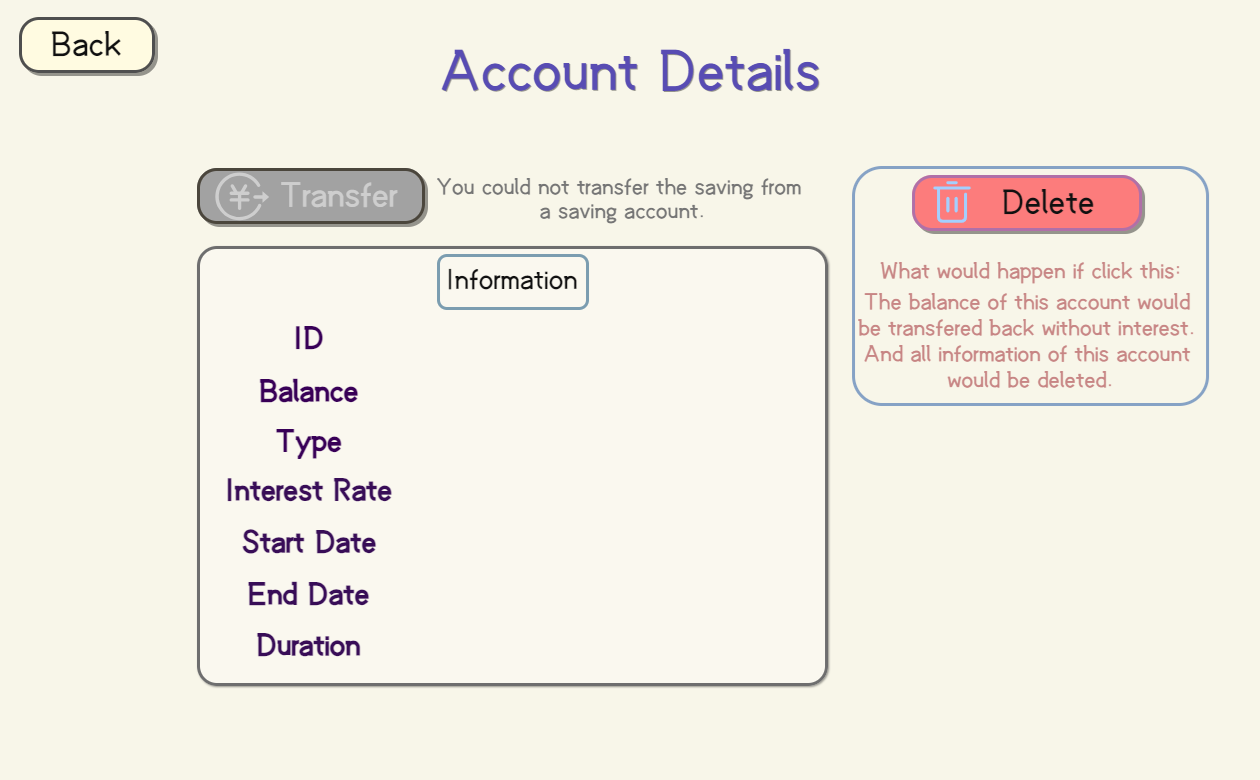
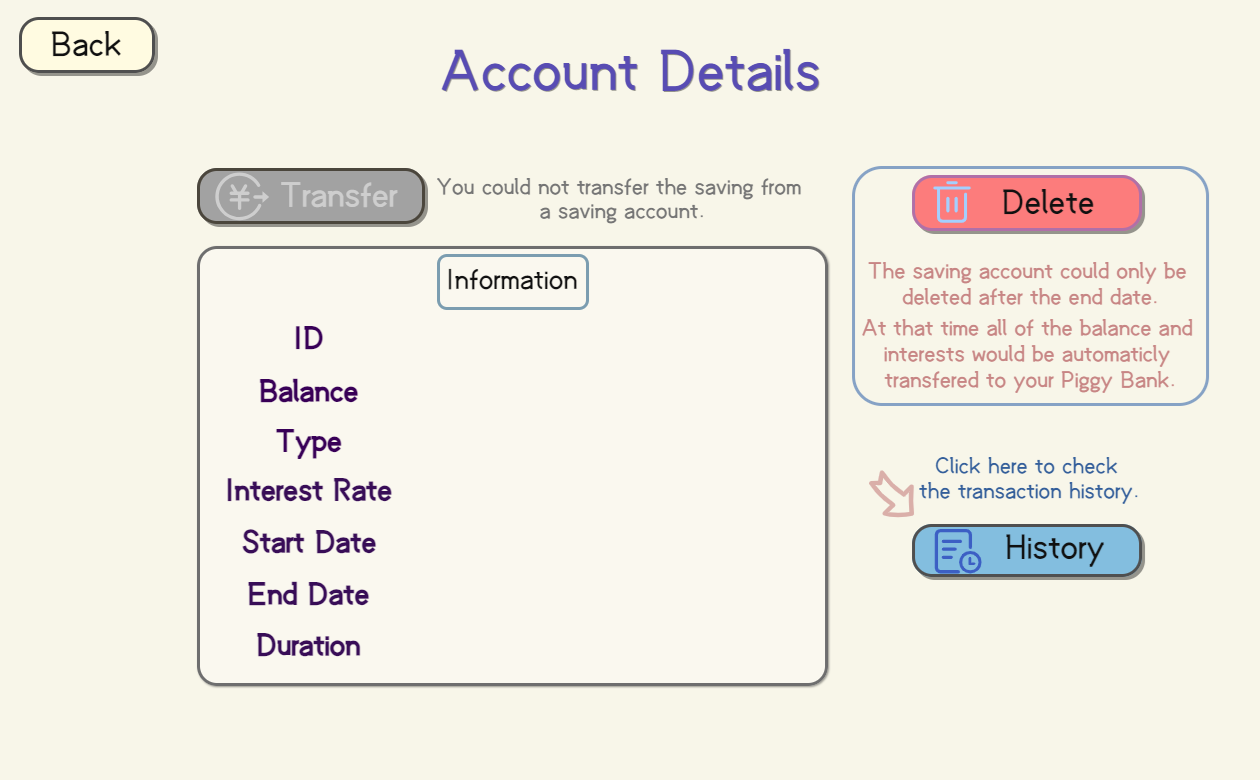
modify Class Page07_Account

Changed region(s): [[0.681, 0.3385, 0.9595, 0.5231], [0.681, 0.5846, 0.9286, 0.7692]]

diff --git a/src/main/java/com/virtualbank/ui/Page07_Account.java b/src/main/java/com/virtualbank/ui/Page07_Account.java
@@ -58,14 +58,7 @@ public class Page07_Account extends JFrame {
         setDefaultCloseOperation(JFrame.EXIT_ON_CLOSE);
         setLayout(null);  // Use null layout for absolute positioning
 
-        JButton exitButton = createButton("Exit", 20, 20, 100, 50);
-        this.add(exitButton);
-        this.exitButton = exitButton;
-        JButton deleteButton = createButton("images/delete_Button.png", 500, 630, 233, 85);
-        this.add(deleteButton);
-        this.deleteButton = deleteButton;
-
-
+        // 根据账户类型设置各自的UI
         if (currentAccount instanceof CurrentAccount) {
             setupCurrentAccountUI((CurrentAccount) account);
         } else if (currentAccount instanceof SavingAccount) {
@@ -76,36 +69,30 @@ public class Page07_Account extends JFrame {
     }
 
     private void setupPiggyBankUI(PiggyBank account) {
-        setupCommonUIElements("images/Piggy_Bank.png");
 
+        ImageIcon backgroundIcon = new ImageIcon("images/Piggy_Bank.png");
+        JLabel backgroundLabel = new JLabel(backgroundIcon);
+        backgroundLabel.setBounds(0, 0, 1260, 780);
+        this.setContentPane(backgroundLabel);
 
-        // Labels for account details
-        JLabel idLabel = createLabel("ID", 340, 140, 200, 50, Font.BOLD, 28);
-        JLabel balanceLabel = createLabel("Balance", 340, 205, 200, 50, Font.BOLD, 28);
-        JLabel typeLabel = createLabel("Type", 340, 270, 200, 50, Font.BOLD, 28);
-        JLabel interestLabel = createLabel("Interest", 340, 335, 200, 50, Font.BOLD, 28);
-        this.add(idLabel);
-        this.add(balanceLabel);
-        this.add(typeLabel);
-        this.add(interestLabel);
+        setupCommonUIElements();
 
         // !!! DYNAMICS
         // Data Labels with dynamic values
-        JLabel dataIdLabel = createDataLabel(account.getUuid().toString(), 540, 140, Font.PLAIN, 28);
-        this.dataBalanceLabel = createDataLabel(String.format("%.2f", account.getBalance()), 540, 205, Font.PLAIN, 28);
-        JLabel dataTypeLabel = createDataLabel("Piggy Bank", 540, 270, Font.PLAIN, 28);
-        JLabel dataInterestLabel = createDataLabel(String.format("%.2f%%", account.getInterestRate() * 100), 540, 335, Font.PLAIN, 28);
+        JLabel dataIdLabel = createDataLabel(account.getUuid().toString(), 470, 332);
+        this.dataBalanceLabel = createDataLabel(String.format("%.2f", account.getBalance()), 470, 400);
+        JLabel dataTypeLabel = createDataLabel("Piggy Bank", 470, 473);
+        JLabel dataInterestLabel = createDataLabel(String.format("%.2f%%", account.getInterestRate() * 100), 470, 550);
         this.add(dataIdLabel);
         this.add(dataBalanceLabel);
         this.add(dataTypeLabel);
         this.add(dataInterestLabel);
 
         // Buttons for account operations
-        this.historyButton = createButton("images/history_Button.png", 340, 420, 233, 85);
-        // TODO 为什么存钱罐可以自己给自己转账 所以还是应该创建更高级的转账功能 直接指定UUID转账
-        this.transferButton = createButton("images/transfer_Button.png", 660, 420, 233, 85);
-        this.saveButton = createButton("images/save_Button.png", 340, 520, 233, 85);
-        this.consumeButton = createButton("images/consume_Button.png", 660, 520, 233, 85);
+        this.historyButton = createButton("", 902, 506, 230, 57);
+        this.transferButton = createButton("", 187, 150, 228, 60);
+        this.saveButton = createButton("", 458, 150, 153, 57);
+        this.consumeButton = createButton("", 638, 150, 160, 58);
         this.add(historyButton);
         this.add(transferButton);
         this.add(saveButton);
@@ -113,31 +100,22 @@ public class Page07_Account extends JFrame {
     }
 
     private void setupSavingAccountUI(SavingAccount account) {
-        setupCommonUIElements("images/Current_Account.png");
 
-        JLabel idLabel = createLabel("ID", 340, 140, 200, 50, Font.BOLD, 28);
-        JLabel balanceLabel = createLabel("Balance", 340, 205, 200, 50, Font.BOLD, 28);
-        JLabel typeLabel = createLabel("Type", 340, 270, 200, 50, Font.BOLD, 28);
-        JLabel interestLabel = createLabel("Interest", 340, 335, 200, 50, Font.BOLD, 28);
-        JLabel startDateLabel = createLabel("Start Date", 340, 400, 200, 50, Font.BOLD, 28);
-        JLabel endDateLabel = createLabel("End Date", 340, 465, 200, 50, Font.BOLD, 28);
-        JLabel durationLabel = createLabel("Duration", 340, 530, 200, 50, Font.BOLD, 28);
-        this.add(idLabel);
-        this.add(balanceLabel);
-        this.add(typeLabel);
-        this.add(interestLabel);
-        this.add(startDateLabel);
-        this.add(endDateLabel);
-        this.add(durationLabel);
+        ImageIcon backgroundIcon = new ImageIcon("images/Saving_Account.png");
+        JLabel backgroundLabel = new JLabel(backgroundIcon);
+        backgroundLabel.setBounds(0, 0, 1260, 780);
+        this.setContentPane(backgroundLabel);
+
+        setupCommonUIElements();
 
         // !!! DYNAMICS
-        JLabel dataIdLabel = createDataLabel(account.getUuid().toString(), 540, 140, Font.PLAIN, 28);
-        this.dataBalanceLabel = createDataLabel(String.format("%.2f", account.getBalance()), 540, 205, Font.PLAIN, 28);
-        JLabel dataTypeLabel = createDataLabel("Saving Account", 540, 270, Font.PLAIN, 28);
-        JLabel dataInterestLabel = createDataLabel(String.format("%.2f%%", account.getInterestRate() * 100), 540, 335, Font.PLAIN, 28);
-        JLabel dataStartDateLabel = createDataLabel(account.getCreateDateTime().toString(), 540, 400, Font.PLAIN, 28);
-        JLabel dataEndDateLabel = createDataLabel(account.getMaturityDateTime().toString(), 540, 465, Font.PLAIN, 28);
-        JLabel dataDurationLabel = createDataLabel(String.format("%d Years", account.getTermPeriod().getYears()), 540, 530, Font.PLAIN, 28);
+        JLabel dataIdLabel = createDataLabel(account.getUuid().toString(), 470, 322);
+        this.dataBalanceLabel = createDataLabel(String.format("%.2f", account.getBalance()), 470, 376);
+        JLabel dataTypeLabel = createDataLabel("Saving Account", 470, 427);
+        JLabel dataInterestLabel = createDataLabel(String.format("%.2f%%", account.getInterestRate() * 100), 470, 476);
+        JLabel dataStartDateLabel = createDataLabel(account.getCreateDateTime().toString(), 470, 527);
+        JLabel dataEndDateLabel = createDataLabel(account.getMaturityDateTime().toString(), 470, 579);
+        JLabel dataDurationLabel = createDataLabel(String.format("%d Years", account.getTermPeriod().getYears()), 470, 630);
         this.add(dataIdLabel);
         this.add(dataBalanceLabel);
         this.add(dataTypeLabel);
@@ -146,59 +124,47 @@ public class Page07_Account extends JFrame {
         this.add(dataEndDateLabel);
         this.add(dataDurationLabel);
 
-        // TODO 调整位置
-        this.historyButton = createButton("images/history_Button.png", 340, 420, 233, 85);
+        this.historyButton = createButton("", 902, 506, 230, 57);
         this.add(historyButton);
     }
 
-    private void setupCurrentAccountUI(CurrentAccount account) {
-        setupCommonUIElements("images/Current_Account.png");
 
-        JLabel idLabel = createLabel("ID", 340, 140, 200, 50, Font.BOLD, 28);
-        JLabel balanceLabel = createLabel("Balance", 340, 205, 200, 50, Font.BOLD, 28);
-        JLabel typeLabel = createLabel("Type", 340, 270, 200, 50, Font.BOLD, 28);
-        JLabel interestLabel = createLabel("Interest", 340, 335, 200, 50, Font.BOLD, 28);
-        this.add(idLabel);
-        this.add(balanceLabel);
-        this.add(typeLabel);
-        this.add(interestLabel);
+    private void setupCurrentAccountUI(CurrentAccount account) {
+
+        ImageIcon backgroundIcon = new ImageIcon("images/Current_Account.png");
+        JLabel backgroundLabel = new JLabel(backgroundIcon);
+        backgroundLabel.setBounds(0, 0, 1260, 780);
+        this.setContentPane(backgroundLabel);
+
+        setupCommonUIElements();
 
         // !!! DYNAMICS
-        JLabel dataIdLabel = createDataLabel(account.getUuid().toString(), 540, 140, Font.PLAIN, 28);
-        this.dataBalanceLabel = createDataLabel(String.format("%.2f", account.getBalance()), 540, 205, Font.PLAIN, 28);
-        JLabel dataTypeLabel = createDataLabel("Current Account", 540, 270, Font.PLAIN, 28);
-        JLabel dataInterestLabel = createDataLabel(String.format("%.2f%%", account.getInterestRate() * 100), 540, 335, Font.PLAIN, 28);
+        JLabel dataIdLabel = createDataLabel(account.getUuid().toString(), 470, 332);
+        this.dataBalanceLabel = createDataLabel(String.format("%.2f", account.getBalance()), 470, 400);
+        JLabel dataTypeLabel = createDataLabel("Piggy Bank", 470, 473);
+        JLabel dataInterestLabel = createDataLabel(String.format("%.2f%%", account.getInterestRate() * 100), 470, 550);
         this.add(dataIdLabel);
         this.add(dataBalanceLabel);
         this.add(dataTypeLabel);
         this.add(dataInterestLabel);
 
-        this.historyButton = createButton("images/history_Button.png", 340, 420, 233, 85);
-        this.transferButton = createButton("images/transfer_Button.png", 660, 420, 233, 85);
+        this.historyButton = createButton("", 902, 506, 230, 57);
+        this.transferButton = createButton("", 187, 150, 228, 60);
         this.add(historyButton);
         this.add(transferButton);
-
-        this.setVisible(true);
     }
 
-    private void setupCommonUIElements(String backgroundImage) {
-        // 设置背景
-        ImageIcon goalBackground = new ImageIcon(backgroundImage);
-        JLabel backgroundLabel = new JLabel(goalBackground);
-        backgroundLabel.setBounds(0, 0, 1260, 780);
-        this.setContentPane(backgroundLabel);
+    private void setupCommonUIElements() {
 
-        // 创建和添加退出按钮
-        JButton exitButton = createButton("Exit", 20, 20, 100, 50);
+        // 设置退出按钮和删除按钮
+        exitButton = createButton("", 16, 2, 135, 57);
+//        if(exitButton != null)  System.out.println("exitButton created.");
         this.add(exitButton);
-        this.exitButton = exitButton;  // 设置类变量以便于其他操作可能需要引用
-
-        // 创建和添加删除按钮
-        JButton deleteButton = createButton("images/delete_Button.png", 500, 630, 233, 85);
+        deleteButton = createButton("", 902, 157, 230, 57);
         this.add(deleteButton);
-        this.deleteButton = deleteButton;  // 同样设置类变量
     }
 
+    // 创建JButton的统一方法
     private JButton createButton(String textOrIconPath, int x, int y, int width, int height) {
         JButton button = new JButton();
         button.setBounds(x, y, width, height);
@@ -206,7 +172,13 @@ public class Page07_Account extends JFrame {
 
         if (textOrIconPath.endsWith(".png") || textOrIconPath.endsWith(".jpg")) {
             button.setIcon(new ImageIcon(textOrIconPath));
-        } else {
+        }
+        else if(textOrIconPath.isEmpty()){
+            button.setOpaque(false);
+            button.setFocusPainted(false);
+            button.setContentAreaFilled(false);
+        }
+        else{
             button.setText(textOrIconPath);
             button.setFont(new Font("Arial", Font.PLAIN, 20));
         }
@@ -214,17 +186,10 @@ public class Page07_Account extends JFrame {
         return button;
     }
 
-    private JLabel createLabel(String text, int x, int y, int width, int height, int style, int fontSize) {
+    private JLabel createDataLabel(String text, int x, int y) {
         JLabel label = new JLabel(text, SwingConstants.CENTER);
-        label.setBounds(x, y, width, height);
-        label.setFont(new Font("Arial", style, fontSize));
-        return label;
-    }
-
-    private JLabel createDataLabel(String text, int x, int y, int style, int fontSize) {
-        JLabel label = new JLabel(text, SwingConstants.CENTER);
-        label.setBounds(x, y, 300, 50);
-        label.setFont(new Font("Arial", style, fontSize));
+        label.setBounds(x, y, 280, 30);
+        label.setFont(new Font("Arial", Font.PLAIN, 26));
         return label;
     }
 

diff --git a/src/main/java/com/virtualbank/ui/Window07_AccountOperation.java b/src/main/java/com/virtualbank/ui/Window07_AccountOperation.java
@@ -3,7 +3,7 @@ package com.virtualbank.ui;
 import com.virtualbank.model.AccountOperationType;
 import com.virtualbank.model.account.Account;
 
-import java.awt.Font;
+import java.awt.*;
 import java.util.UUID;
 import javax.swing.ImageIcon;
 import javax.swing.JButton;
@@ -40,11 +40,12 @@ public class Window07_AccountOperation extends JFrame {
         this.descriptionBox = new JTextField();
         this.confirmButton = new JButton();
 
-        final int this_width = 600;
-        final int this_height = 378;
-        this.setBounds(330, 200, this_width, this_height);
+        final int this_width = 800;
+        final int this_height = 480;
+        this.setBounds(300, 200, this_width, this_height);
         this.setResizable(false);
         this.setLayout(null);
+        this.setBackground(new Color(0xF8F6E9));
 
         String title = null;
         if (operationType == AccountOperationType.TRANSFER) {
@@ -64,45 +65,48 @@ public class Window07_AccountOperation extends JFrame {
 
         Font plainLabelFont = new Font("Arial", Font.PLAIN, 20);
 
-        // amountBox
-        String labelText = null;
+        // amountLabel
+        String amountLabelText = null;
         if (operationType == AccountOperationType.TRANSFER) {
-            labelText = "Transfer Amount";
-        } else if (operationType == AccountOperationType.CONSUME) {
-            labelText = "CONSUME Amount";
-        } else if (operationType == AccountOperationType.SAVE) {
-            labelText = "SAVE Amount";
+            amountLabelText = "*Transfer Amount*";
         }
-        JLabel transferLabel = new JLabel(labelText);
+        else if (operationType == AccountOperationType.CONSUME) {
+            amountLabelText = "*CONSUME Amount*";
+        }
+        else if (operationType == AccountOperationType.SAVE) {
+            amountLabelText = "*SAVE Amount*";
+        }
 
-        this.add(transferLabel);
-        transferLabel.setBounds(60, 80, 120, 40);
-        transferLabel.setFont(plainLabelFont);
-        transferLabel.setHorizontalAlignment(SwingConstants.CENTER);
+        JLabel amountLabel = new JLabel(amountLabelText);
+        amountLabel.setBounds(200, 60, 200, 40);
+        amountLabel.setFont(plainLabelFont);
+        amountLabel.setHorizontalAlignment(SwingConstants.LEFT);
+        this.add(amountLabel);
 
-        // transferAmountField
-        this.add(this.amountBox);
-        this.amountBox.setBounds(200, 80, 320, 40);
+        // amountBox
+        this.amountBox.setBounds(200, 100, 400, 40);
         this.amountBox.setFont(plainLabelFont);
+        this.add(this.amountBox);
 
-        // sumLabel
-        JLabel sumLabel = new JLabel("Description");
-        this.add(sumLabel);
-        sumLabel.setBounds(60, 140, 120, 40);
-        sumLabel.setFont(plainLabelFont);
-        sumLabel.setHorizontalAlignment(SwingConstants.CENTER);
+        // descriptionLabel
+        JLabel descriptionLabel = new JLabel("**Description**");
+        this.add(descriptionLabel);
+        descriptionLabel.setBounds(200, 180, 200, 40);
+        descriptionLabel.setFont(plainLabelFont);
+        descriptionLabel.setHorizontalAlignment(SwingConstants.LEFT);
 
         // descriptionBox
         this.add(this.descriptionBox);
-        this.descriptionBox.setBounds(200, 140, 320, 40);
+        this.descriptionBox.setBounds(200, 220, 400, 40);
         this.descriptionBox.setFont(plainLabelFont);
 
         // confirmButton
         this.add(this.confirmButton);
-        this.confirmButton.setBounds(240, 220, 120, 40);
-        this.confirmButton.setFont(plainLabelFont);
-        this.confirmButton.setHorizontalAlignment(SwingConstants.CENTER);
-        this.confirmButton.setText("OK");
+        this.confirmButton.setBounds(330, 300, 140, 55);
+        ImageIcon confirmButtonIcon = new ImageIcon("images/confirm2.png");
+        confirmButton.setIcon(confirmButtonIcon);
+        confirmButton.setBorder(null);
+        confirmButton.setContentAreaFilled(false);
 
         this.setDefaultCloseOperation(JFrame.EXIT_ON_CLOSE);
         this.setVisible(true);
